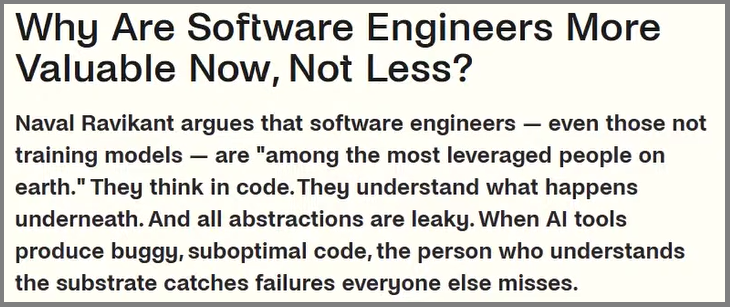
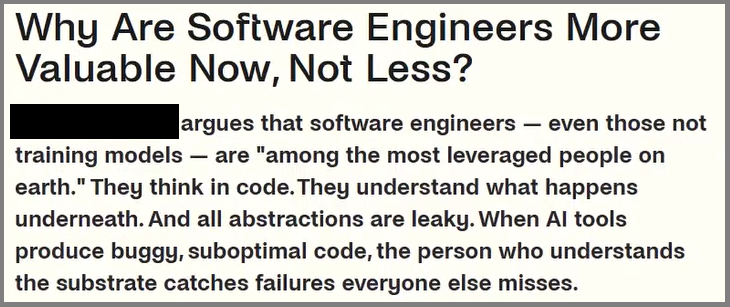
thu 11

Changed region(s): [[0.0, 0.3225, 0.2712, 0.4691]]

diff --git a/index.md b/index.md
@@ -5,9 +5,9 @@ title: Home
 
 <br>
 
-The **[TL;DR](/0-tldr/)** page describes how **ZiptieAI can give you a solid foundation in AI ASAP** (so that you stop getting scammed and instead learn how to exploit this amazing tech to your advantage). The primary **[focus](/0-site-focus/)** of this site is on hands-on **[demos](/0b-demos/)** *(see the latest demo -- a **[DIY tiny transformer](/2.3.6.1b-d5-tiny-tf-algorithm-details/) (WIP)**)* for **[AI (models)](/2_models/)** and **[agents](/3_agents/)**. 
+The **[TL;DR](/0-tldr/)** page describes how ZiptieAI can give you a solid foundation in AI ASAP. The primary **[focus](/0-site-focus/)** of this site is on hands-on **[demos](/0b-demos/)** *(see the latest demo -- a **[DIY tiny transformer](/2.3.6.1b-d5-tiny-tf-algorithm-details/) (WIP)**)* for **[AI (models)](/2_models/)** and **[agents](/3_agents/)**. 
 
-Studying code for basic AI demos (NNs, CNNs, LLMs, etc) is the **only way** to really grasp what AI (and AI hype) is. And its **not that difficult** nowadays, because AI tools (Cursor, GPT, Codex, etc) do all the difficult coding and debugging for you. The **hard part** is AI does not have the intelligence to organize demos and describe concepts clearly. Thats **[my job](/about/)**. 
+
 
 *[ZiptieAI evolution](/0.1-zai-evolution/)* <br>
 <img src="/assets/zai_evolution7.png" alt="drones" width="42%">
@@ -16,7 +16,7 @@ Studying code for basic AI demos (NNs, CNNs, LLMs, etc) is the **only way** to r
 
 The following describes the top-level pages *(see also the **[Wiki](https://github.com/terrytaylorbonn/auxdrone/wiki)**)*.  
 
-- **[TL;DR](/0-tldr/)**. Quick gist of what the site is about.
+- **[TL;DR](/0-tldr/)**.
 - **[Focus](/0-site-focus/)**. Site focus.
 - **[Demos](/0b-demos/)**. For AI models and agents.
 - [1 Drones](/1-drones/). FPV/Pixhawk drones (with CNN object recognition). 